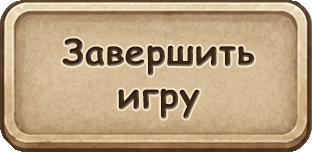
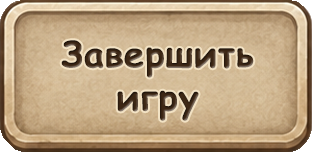
гуд

Changed region(s): [[0.1731, 0.2368, 0.8365, 0.5263], [0.3462, 0.5526, 0.6635, 0.8158], [0.5769, 0.7368, 0.6058, 0.8158]]

diff --git a/GameForm.cs b/GameForm.cs
@@ -45,15 +45,9 @@ namespace Bone_By_Bone
             pausePanel.Enabled = false;
             pausePanel.SendToBack();
             this.Load += GameForm_Load;
-            overlayPanel = new TransparentPanel();
-            overlayPanel.Size = this.ClientSize;
-            overlayPanel.Location = new Point(0, 0);
-            overlayPanel.Visible = false;
-            this.Controls.Add(overlayPanel);
             this.Paint += GameForm_Paint;
             lblTime.Parent = activetime;
             lblTime.BackColor = Color.Transparent;
-
             lblMistakes.Parent = activetime;
             lblMistakes.BackColor = Color.Transparent;
         }
@@ -75,7 +69,25 @@ namespace Bone_By_Bone
             pausePanel.Visible = true;
         }
 
-        
+        public void ShowPause()
+        {
+            lightScreenshot = new Bitmap(this.Width, this.Height);
+            this.DrawToBitmap(lightScreenshot, new Rectangle(0, 0, this.Width, this.Height));
+
+            Bitmap dark = new Bitmap(lightScreenshot);
+            using (Graphics g = Graphics.FromImage(dark))
+            using (var brush = new SolidBrush(Color.FromArgb(150, 0, 0, 0)))
+                g.FillRectangle(brush, 0, 0, dark.Width, dark.Height);
+
+            overlayPanel.BackgroundImage = dark;
+            overlayPanel.BackgroundImageLayout = ImageLayout.Stretch;
+            overlayPanel.Visible = true;
+            overlayPanel.Size = this.ClientSize;
+            overlayPanel.BringToFront();
+            pausePanel.Enabled = true;
+        }
+
+
 
         private void buttonbuter_MouseEnter(object sender, EventArgs e)
         {
@@ -103,6 +115,9 @@ namespace Bone_By_Bone
             if (pausing)
             {
                 TimerGame.Stop();
+                pausePanel.Enabled = true;
+
+                buttonbuter.Image = Properties.Resources.buttonbuternormal;
 
                 // сначала сохраняем светлый скриншот
                 lightScreenshot = new Bitmap(this.Width, this.Height);
@@ -119,11 +134,11 @@ namespace Bone_By_Bone
                 overlayPanel.Visible = true;
                 overlayPanel.Size = this.ClientSize;
                 overlayPanel.BringToFront();
-                buttonbuter.BringToFront();
             }
             else
             {
                 TimerGame.Start();
+                pausePanel.Enabled = false;
 
                 // показываем светлый скриншот пока overlay ещё видим
                 overlayPanel.BackgroundImage = lightScreenshot;
@@ -264,64 +279,7 @@ namespace Bone_By_Bone
 
         private void ChoiceBone_MouseUp(object sender, MouseEventArgs e)
         {
-            if (!isDragging || draggingBone == null) return;
-            isDragging = false;
 
-            Point center = new Point(
-                draggingBone.Left + draggingBone.Width / 2,
-                draggingBone.Top + draggingBone.Height / 2
-            );
-
-            if (AssemblyZone.Contains(center))
-            {
-                // Ищем кость к которой физически поднесли
-                bool isValidNeighbor = false;
-                foreach (var placedId in placedBones)
-                {
-                    var placedBone = skeleton.GetBone(placedId);
-                    if (!placedBone.Neighbors.Contains(draggingBoneId)) continue;
-
-                    // Проверяем физическое расстояние до этой кости на экране
-                    PictureBox slotPb = slotBoxes[placedId];
-                    Point slotCenter = new Point(
-                        slotPb.Left + slotPb.Width / 2,
-                        slotPb.Top + slotPb.Height / 2
-                    );
-                    int dx = Math.Abs(center.X - slotCenter.X);
-                    int dy = Math.Abs(center.Y - slotCenter.Y);
-
-                    if (dx < 150 && dy < 150) // радиус притяжения — подгонишь под себя
-                    {
-                        isValidNeighbor = true;
-                        break;
-                    }
-                }
-
-                if (isValidNeighbor)
-                {
-                    this.Controls.Remove(draggingBone);
-                    choiceBoxes.Remove(draggingBone);
-                    placedBones.Add(draggingBoneId);
-                    PlaceBoneInAssembly(draggingBoneId);
-                    RefreshChoicePanel();
-                    CheckVictory();
-                }
-                else
-                {
-                    draggingBone.Size = new Size(200, 200);
-                    draggingBone.Location = dragOriginalLocation;
-                    mistakesCount++;
-                    lblMistakes.Text = "" + mistakesCount;
-                }
-            }
-            else
-            {
-                draggingBone.Size = new Size(200, 200);
-                draggingBone.Location = dragOriginalLocation;
-            }
-
-            draggingBone = null;
-            draggingBoneId = null;
         }
 
         private void CheckVictory()
@@ -347,6 +305,9 @@ namespace Bone_By_Bone
             placedBones.Clear();
             availableNeighbors.Clear();
             TimerGame.Stop();
+            overlayPanel.Visible = false;
+            pausePanel.Enabled = false;
+            assemblyDrawList.Clear();
         }
 
         private Image GetBoneImage(string imageKey)
@@ -404,7 +365,8 @@ namespace Bone_By_Bone
         private void btnPauseSettings_Click(object sender, EventArgs e)
         {
             TogglePause();
-            BackToMenuClicked?.Invoke(this, EventArgs.Empty);
+            TimerGame.Stop();
+            SettingsClicked?.Invoke(this, EventArgs.Empty);
         }
 
         private void btnEndGame_MouseEnter(object sender, EventArgs e)

diff --git a/GameForm.Designer.cs b/GameForm.Designer.cs
@@ -122,13 +122,12 @@
             // pausePanel
             // 
             this.pausePanel.BackColor = System.Drawing.Color.Transparent;
-            this.pausePanel.BackgroundImage = global::Bone_By_Bone.Properties.Resources.menu;
+            this.pausePanel.BackgroundImage = global::Bone_By_Bone.Properties.Resources.pauzepanel;
             this.pausePanel.BackgroundImageLayout = System.Windows.Forms.ImageLayout.Stretch;
             this.pausePanel.Controls.Add(this.btnResume);
             this.pausePanel.Controls.Add(this.btnPauseSettings);
             this.pausePanel.Controls.Add(this.btnEndGame);
-            this.pausePanel.Enabled = false;
-            this.pausePanel.Location = new System.Drawing.Point(659, 249);
+            this.pausePanel.Location = new System.Drawing.Point(655, 247);
             this.pausePanel.Name = "pausePanel";
             this.pausePanel.Size = new System.Drawing.Size(639, 598);
             this.pausePanel.TabIndex = 18;
@@ -139,9 +138,9 @@
             this.btnResume.BackColor = System.Drawing.Color.Transparent;
             this.btnResume.Cursor = System.Windows.Forms.Cursors.Hand;
             this.btnResume.Image = global::Bone_By_Bone.Properties.Resources.buttongo1;
-            this.btnResume.Location = new System.Drawing.Point(198, 164);
+            this.btnResume.Location = new System.Drawing.Point(195, 175);
             this.btnResume.Name = "btnResume";
-            this.btnResume.Size = new System.Drawing.Size(243, 105);
+            this.btnResume.Size = new System.Drawing.Size(254, 105);
             this.btnResume.SizeMode = System.Windows.Forms.PictureBoxSizeMode.StretchImage;
             this.btnResume.TabIndex = 21;
             this.btnResume.TabStop = false;
@@ -155,9 +154,9 @@
             this.btnPauseSettings.BackColor = System.Drawing.Color.Transparent;
             this.btnPauseSettings.Cursor = System.Windows.Forms.Cursors.Hand;
             this.btnPauseSettings.Image = global::Bone_By_Bone.Properties.Resources.buttonnormal2;
-            this.btnPauseSettings.Location = new System.Drawing.Point(198, 288);
+            this.btnPauseSettings.Location = new System.Drawing.Point(195, 299);
             this.btnPauseSettings.Name = "btnPauseSettings";
-            this.btnPauseSettings.Size = new System.Drawing.Size(243, 105);
+            this.btnPauseSettings.Size = new System.Drawing.Size(254, 105);
             this.btnPauseSettings.SizeMode = System.Windows.Forms.PictureBoxSizeMode.StretchImage;
             this.btnPauseSettings.TabIndex = 20;
             this.btnPauseSettings.TabStop = false;
@@ -171,9 +170,9 @@
             this.btnEndGame.BackColor = System.Drawing.Color.Transparent;
             this.btnEndGame.Cursor = System.Windows.Forms.Cursors.Hand;
             this.btnEndGame.Image = global::Bone_By_Bone.Properties.Resources.buttonend1;
-            this.btnEndGame.Location = new System.Drawing.Point(198, 410);
+            this.btnEndGame.Location = new System.Drawing.Point(195, 421);
             this.btnEndGame.Name = "btnEndGame";
-            this.btnEndGame.Size = new System.Drawing.Size(243, 104);
+            this.btnEndGame.Size = new System.Drawing.Size(254, 104);
             this.btnEndGame.SizeMode = System.Windows.Forms.PictureBoxSizeMode.StretchImage;
             this.btnEndGame.TabIndex = 19;
             this.btnEndGame.TabStop = false;

diff --git a/Properties/Resources.Designer.cs b/Properties/Resources.Designer.cs
@@ -653,6 +653,16 @@ namespace Bone_By_Bone.Properties {
         /// <summary>
         ///   Поиск локализованного ресурса типа System.Drawing.Bitmap.
         /// </summary>
+        internal static System.Drawing.Bitmap pauzepanel {
+            get {
+                object obj = ResourceManager.GetObject("pauzepanel", resourceCulture);
+                return ((System.Drawing.Bitmap)(obj));
+            }
+        }
+        
+        /// <summary>
+        ///   Поиск локализованного ресурса типа System.Drawing.Bitmap.
+        /// </summary>
         internal static System.Drawing.Bitmap settingscreen {
             get {
                 object obj = ResourceManager.GetObject("settingscreen", resourceCulture);

diff --git a/Form1.cs b/Form1.cs
@@ -45,7 +45,7 @@ namespace Bone_By_Bone
         private void GameForm1_BackToMenuClicked(object sender, EventArgs e)
         {
             gameForm1.Visible = false;
-            mainMenuForm1.Visible = true;
+            levelSekectForm1.Visible = true;
         }
 
         private void LevelSekectForm1_BackToMenuClicked(object sender, EventArgs e)
@@ -71,7 +71,11 @@ namespace Bone_By_Bone
         {
             settingForm1.Visible = false;
 
-            if (previousPanel == "game") gameForm1.Visible = true;
+            if (previousPanel == "game")
+            {
+                gameForm1.Visible = true;
+                gameForm1.ShowPause(); // добавим метод
+            }
             else if (previousPanel == "levels") levelSekectForm1.Visible = true;
             else mainMenuForm1.Visible = true;
         }